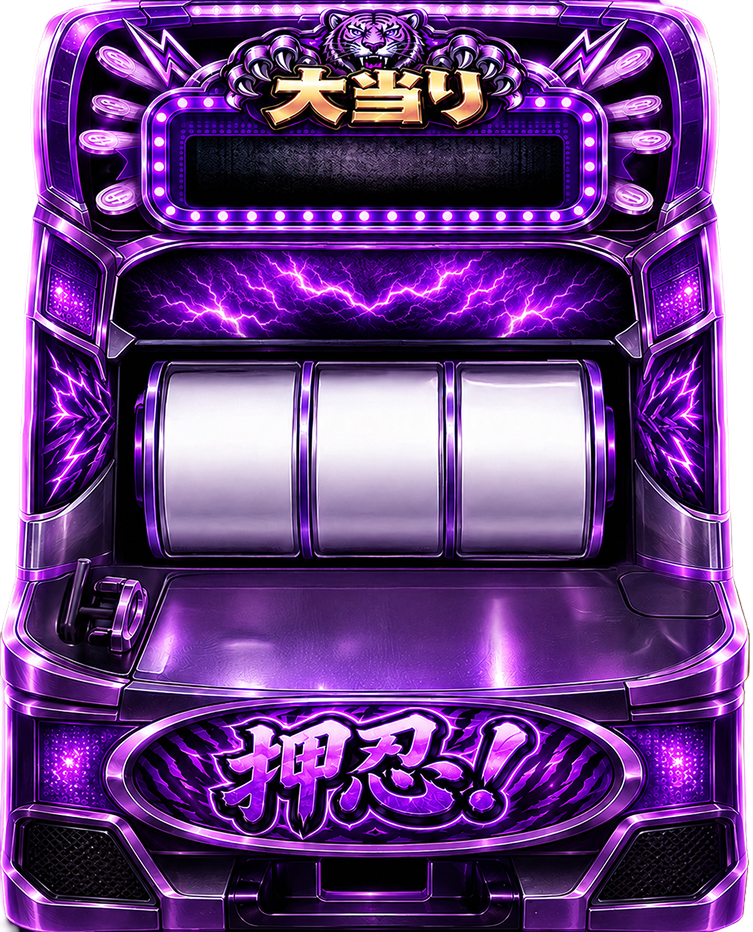
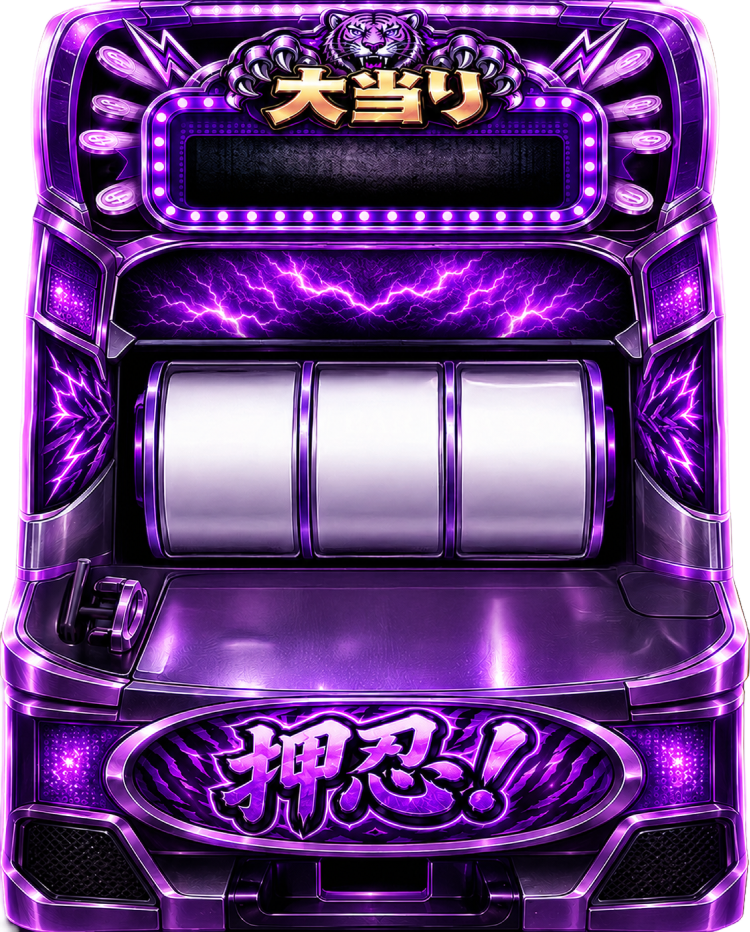
fix: main_rush.png 修正為 750×932（與 main 一致），sprite 重組 + 定位係數更新

diff --git a/frontend/components/challenge/SlotMachineClassic.tsx b/frontend/components/challenge/SlotMachineClassic.tsx
@@ -121,8 +121,8 @@ const SMVC_CSS = `
   inset:0; z-index:1;
   background-image:var(--smvc-sprite);
   background-repeat:no-repeat;
-  background-size:271.9788% 150.2146%;
-  background-position:58.6873% 0%;
+  background-size:273.0667% 150.2146%;
+  background-position:58.5516% 0%;
   opacity:0;
 }
 .smvc-stage.smvc-rushskin .smvc-mrush { opacity:1; }
@@ -139,8 +139,8 @@ const SMVC_CSS = `
   opacity:0;
 }
 .smvc-stage.smvc-rushskin .smvc-lit {
-  background-size:271.9788% 150.2146%;
-  background-position:58.6873% 0%;
+  background-size:273.0667% 150.2146%;
+  background-position:58.5516% 0%;
 }
 @keyframes smvc-litPulse  { 0%,100%{opacity:0;} 50%{opacity:.85;} }
 @keyframes smvc-litStrobe { 0%{opacity:1;} 50%{opacity:.05;} }
